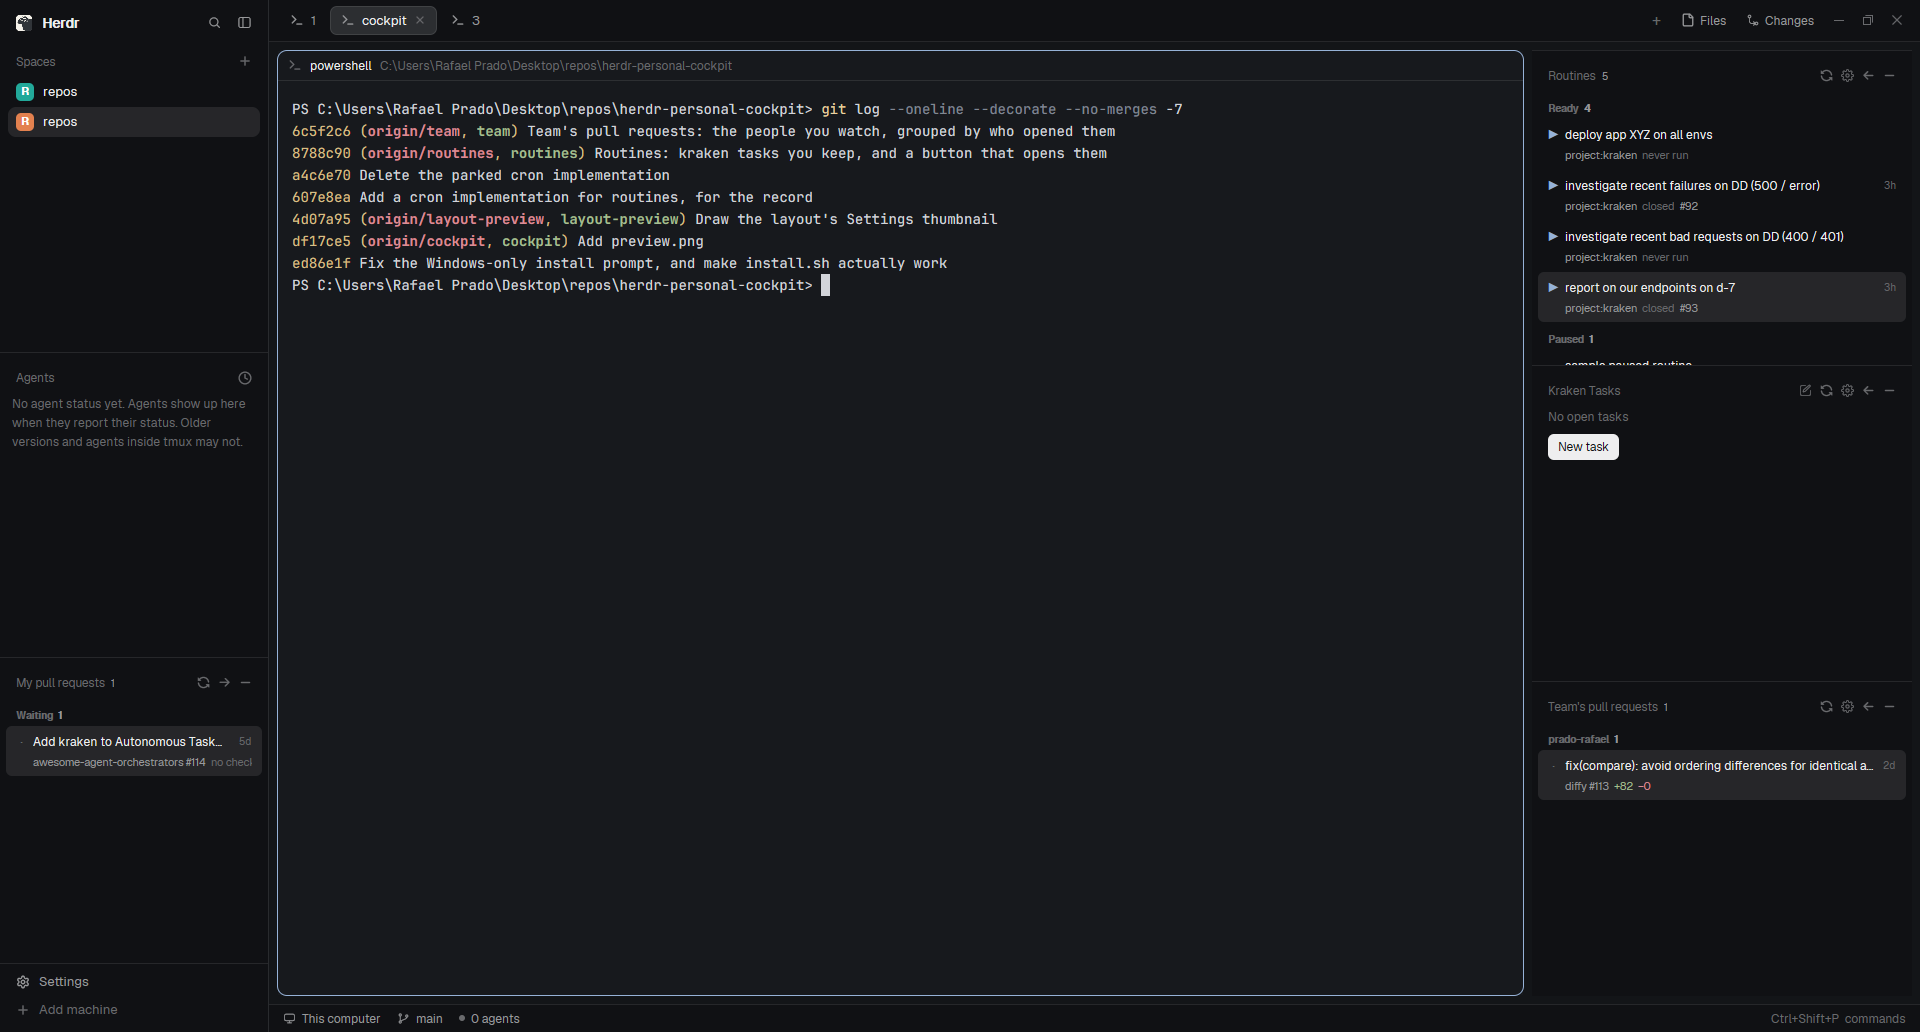
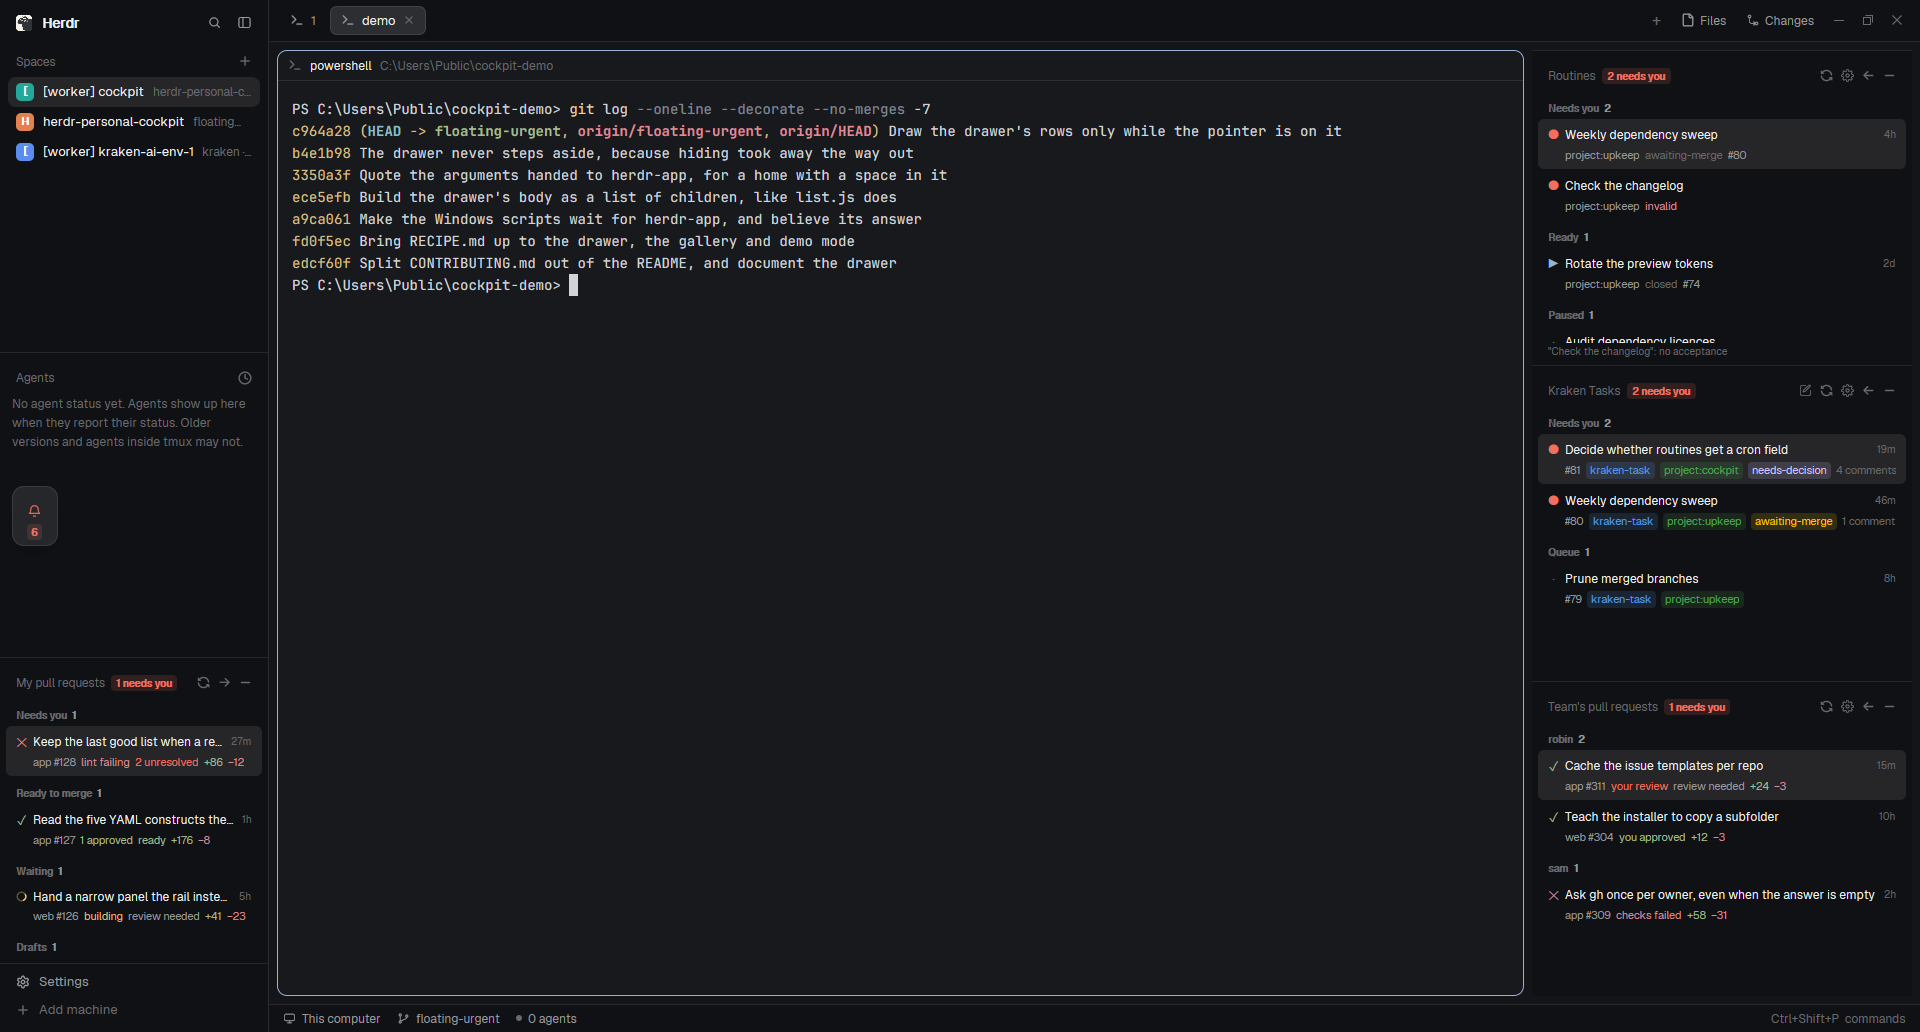
Ship the panels on both sides, and reshoot preview.png from the sandbox
The arrangement is the one this gets used in: My pull requests in the sidebar
under Spaces and Agents, and Routines, Kraken Tasks and Team's pull requests
in the right column in that order, with the terminals between them. What is
yours alone on the left, what you share with other people on the right. The
order is now asserted, because it is a promise the recipe makes.

The drawer moves to the left edge with it. The case for the right was that the
right column shipped hidden, so the strip fell on the dead margin beside a
terminal. That stopped being true in this commit: the right of the window is a
column of panels now, and the left is the sidebar, whose middle is the sparse
Agents block. Either edge overlaps something -- the drawer floats -- and the
left overlaps the least. It is still a drag away from the other one.

preview.png is reshot from the sandbox, which is what the sandbox was for. The
one it replaces had a real repo, a real login, real routine names and a real
home path in it, and has been the herdr.dev gallery card that whole time.

The panels were the easy half: they are full of the acme world by themselves.
The work area was not -- the sandbox shares herdr-core, so the terminal in
front is a real one with a real prompt. This one runs in a clone at
C:\Users\Public\cockpit-demo, so the only thing on screen from this machine is
this repository's own public history. CONTRIBUTING.md now says how, because
the next person to reshoot it will hit exactly the same thing.

diff --git a/tests/structure.test.js b/tests/structure.test.js
@@ -277,6 +277,22 @@ test("every module the recipe lists is a file, and every file is listed", () => 
   }
 });
 
+test("the shipped layout puts the panels where, and in the order, it says", () => {
+  // Not a style preference: this is how the layout is meant to be read, left
+  // column then right, and RECIPE.md's What you see describes exactly this.
+  // A panel that quietly changed places would make the recipe wrong.
+  const layout = JSON.parse(read(join(ROOT, "layouts", "cockpit.json")));
+  const find = (node, id) => (node?.id === id ? node : (node?.children ?? []).reduce((a, c) => a || find(c, id), null));
+  const kinds = (column) => (column?.children ?? []).map((c) => c.content?.props?.kind).filter(Boolean);
+
+  assert.deepEqual(kinds(find(layout, "sidebar-lists")), ["pulls"]);
+  assert.deepEqual(kinds(find(layout, "right-lists")), ["routines", "issues", "team"]);
+
+  // The right column ships with panels in it, so it ships shown. dock.js hides
+  // it only once the last panel is moved out.
+  assert.notEqual(find(layout, "right-lists").hidden, true);
+});
+
 test("the shipped layout hangs the drawer off an edge, with a peek", () => {
   // The strip the drawer draws is exactly `peek` wide: any other number and
   // the count sits half off the screen. drawer.js names it EDGE.

diff --git a/RECIPE.md b/RECIPE.md
@@ -1,14 +1,15 @@
 # Personal Cockpit
 
-Stacked panels in the Herdr sidebar, under Spaces and Agents: your open pull
-requests across every repo you can read, the open pull requests of the people
-you watch, the tasks you keep instead of rewriting, and the open issues of one
-coordination repo you pick — a kraken task queue. Each says in its header how
-many want something from you, keeps its last good list when the network blips,
-minimises to its own header bar, and can move to a matching column on the
-right. Click a row to open it in the browser.
+Panels down both sides of the Herdr window, with the terminals between them:
+in the sidebar under Spaces and Agents, your open pull requests across every
+repo you can read; in a column on the right, the tasks you keep instead of
+rewriting, the open issues of one coordination repo you pick — a kraken task
+queue — and the open pull requests of the people you watch. Each says in its
+header how many want something from you, keeps its last good list when the
+network blips, minimises to its own header bar, and moves to the other side
+with one button. Click a row to open it in the browser.
 
-Hanging off the window's right edge, a 44 px strip with a count: what is waiting
+Hanging off the window's left edge, a 44 px strip with a count: what is waiting
 on you across all four, ordered by what the move actually is. It floats over the
 work area, so it is still there when the sidebar is folded — and with nothing
 waiting it is not drawn at all.
@@ -17,25 +18,32 @@ waiting it is not drawn at all.
 
 ## What you see
 
-The shipped `cockpit` layout is Herdr's `main` with four blocks added to
-`sidebar-lists` and one in `floating`, so the sidebar column reads top to
-bottom:
+The shipped `cockpit` layout is Herdr's `main` with four panels, one on each
+side of the work area, and the drawer in `floating`. The terminals sit between
+them, which is the point of the arrangement: what is yours alone is on the
+left, what you share with other people is on the right, and the work is in the
+middle.
+
+The **sidebar** reads top to bottom:
 
 - **Brand** — 46 px, `workspace-chrome`, drags the window.
 - **Spaces** — flexible, `min` 90.
 - **Agents** — flexible, `min` 90.
 - **My pull requests** — flexible, `min` 42.
-- **Team's pull requests** — flexible, `min` 42.
-- **Routines** — flexible, `min` 42.
-- **Kraken Tasks** — flexible, `min` 42.
 - **Footer** — 69 px, `workspace-chrome` with `footer: true`.
 
-The sidebar is 268 px, `min` 44, `max` 480, background `chrome`, not resizable.
-To its right the usual work column: a 42 px tab bar, the active tab with card
-panes (radius 10, gap 8, 30 px always-on header, `lone: true`), a 28 px status
-bar. In `work-body` sit two more columns, both `hidden` until used: `panel`
-(Files and Changes, 368 px) and **`right-lists`** (380 px, `min` 300, `max`
-640) — the empty column any of the four panels moves into.
+It is 268 px, `min` 44, `max` 480, background `chrome`, not resizable. To its
+right the usual work column: a 42 px tab bar, the active tab with card panes
+(radius 10, gap 8, 30 px always-on header, `lone: true`), a 28 px status bar.
+
+In `work-body`, past the tab, two more columns:
+
+- **`panel`** (Herdr's Files and Changes, 368 px), `hidden` until used.
+- **`right-lists`** — 380 px, `min` 300, `max` 640, shown, and holding three
+  panels in this order: **Routines**, **Kraken Tasks**, **Team's pull
+  requests**. Each flexible, `min` 42. It is the same stack the sidebar is, so
+  a panel moves between the two and keeps its shape; emptied by moving all
+  three out, the column hides rather than goes, and keeps its width.
 
 Each panel is the same shape:
 
@@ -109,7 +117,7 @@ task is closed, and `#number` in `muted`. The age is when that task was opened.
 Narrower than 160 px a panel drops to a **rail**: its icon, tinted `blocked`
 when something needs you, and the count in a small pill.
 
-**The drawer**, floating on the window's right edge, vertically centred, with a
+**The drawer**, floating on the window's left edge, vertically centred, with a
 44 px peek. It is not in the layout tree. With nothing waiting it is not drawn
 at all — no strip, nothing on the edge.
 
@@ -293,8 +301,8 @@ for all four panels, and The floating drawer. Everything on it is made up.
 ## Built from
 
 ```
-layouts/cockpit.json          main + four blocks in sidebar-lists, and the
-                              drawer in `floating`
+layouts/cockpit.json          main + one panel in sidebar-lists, three in
+                              right-lists, and the drawer in `floating`
 layouts/cockpit.svg           its thumbnail in Settings, named by "preview"
 mods/personal-cockpit/
   main.js      the one exported View; picks a screen by props.kind
@@ -358,7 +366,7 @@ unknown `kind`, and no props at all, is the pull requests panel — which is wha
 The drawer's block, in the root's `floating` array rather than its `children`:
 
 ```json
-{ "id": "urgent", "edge": "right", "align": "center", "peek": 44,
+{ "id": "urgent", "edge": "left", "align": "center", "peek": 44,
   "content": { "mod": "personal-cockpit", "props": { "kind": "urgent" } } }
 ```
 
@@ -622,7 +630,7 @@ adding a connection to one of these, and do not estimate.
   a blank new-issue form.
 - Settings → Look shows a drawn thumbnail on the cockpit card, not the empty
   frame a layout without a `preview` gets.
-- **Nothing on the right edge** while all four panels are up to date: no strip,
+- **Nothing on the left edge** while all four panels are up to date: no strip,
   no count, nothing to hover.
 - With a failing pull request of yours, a review requested of you, a task
   labelled `needs-decision` and a routine missing its Acceptance, the edge shows
@@ -633,11 +641,15 @@ adding a connection to one of these, and do not estimate.
   row takes no pointer and opens nothing.
 - Folding the sidebar away leaves the drawer where it was — which is the whole
   reason it is not in the sidebar.
-- Docking every panel into the right column leaves the drawer exactly where it
-  was, overlapping that column's edge. So does opening Herdr's files and
-  changes panel. Nothing but an empty list takes it off the screen.
-- Dragging the drawer to the left edge puts the strip on the left of the body,
-  and Herdr still has it there after a restart.
+- Moving every panel into one column leaves the drawer exactly where it was,
+  overlapping whatever is under it. So does opening Herdr's files and changes
+  panel. Nothing but an empty list takes it off the screen.
+- Dragging the drawer to the right edge puts the strip on the right of the
+  body, and Herdr still has it there after a restart.
+- The sidebar holds My pull requests, and the right column Routines, Kraken
+  Tasks and Team's pull requests, in that order. The dock arrow in any of their
+  headers moves one across; moving all three out of the right column hides it
+  and keeps its width for the next one.
 - `herdr-app do personal-cockpit.kit` opens the gallery **once**, not four
   times, with every header state, the three rails, all four panels' rows wide
   and narrow, and the drawer's body on it. `escape` closes it. Switching the

diff --git a/README.md b/README.md
@@ -3,8 +3,9 @@
 [![CI](https://github.com/rafael-adcp/herdr-personal-cockpit/actions/workflows/ci.yml/badge.svg)](https://github.com/rafael-adcp/herdr-personal-cockpit/actions/workflows/ci.yml)
 [![codecov](https://codecov.io/gh/rafael-adcp/herdr-personal-cockpit/branch/main/graph/badge.svg)](https://codecov.io/gh/rafael-adcp/herdr-personal-cockpit)
 
-Panels for the [Herdr](https://herdr.dev) desktop app: what needs me, in the
-sidebar, next to the agents doing the work.
+Panels for the [Herdr](https://herdr.dev) desktop app: what needs me, on both
+sides of the terminals doing the work. Your own pull requests on the left, with
+Spaces and Agents; the queue and the people you watch on the right.
 
 ![Personal Cockpit](preview.png)
 
@@ -15,14 +16,18 @@ sidebar, next to the agents doing the work.
 | **Kraken Tasks** | The open issues of one coordination repo you choose — a [kraken](https://github.com/rafael-adcp/kraken) task queue. Grouped into Needs you / Queue, with the issues' own GitHub labels. |
 | **Routines** | Kraken tasks you keep instead of rewriting. A `▶` opens one in the queue; while its task is open the button is gone. Grouped into Needs you / In the queue / Ready / Paused. |
 
+**My pull requests** ships in the sidebar; **Routines**, **Kraken Tasks** and
+**Team's pull requests** ship in a 380px column on the right of the work area,
+in that order. Any of them moves to the other side with the dock arrow in its
+header, and the layout remembers where you put it.
+
 All four keep their last good list when a refresh fails, minimise to their own
-header bar — the minus, or a press anywhere else on the bar — move to a column
-on the right, and drop to an icon-and-count rail when the sidebar is dragged
-narrow.
+header bar — the minus, or a press anywhere else on the bar — and drop to an
+icon-and-count rail when their column is dragged narrow.
 
 ## The drawer on the edge
 
-Hanging off the right edge of the window is a 44px strip with a count: what is
+Hanging off the left edge of the window is a 44px strip with a count: what is
 waiting on you across all four panels. Hover it and it slides out. With nothing
 waiting it is not there at all — the reward for being up to date is a clean
 edge.
@@ -139,16 +144,17 @@ column:
   "content": { "mod": "personal-cockpit", "props": { "kind": "issues", "node": "kraken-issues" } } }
 ```
 
-For the move button to have somewhere to go, the row holding your tab block
-needs an empty `right-lists` column — or let the panel create one the first
-time you press it.
+Put the first block in your sidebar column and the other three in a
+`right-lists` column inside the row that holds your tab block, which is where
+the dock arrow moves a panel to. Leave that column out and the first press of
+the arrow creates it.
 
 The drawer is not in the tree. It goes in `floating`, beside the root's
 `children`, and the `peek` is what stays showing when the pointer is elsewhere:
 
 ```json
 "floating": [
-  { "id": "urgent", "edge": "right", "align": "center", "peek": 44,
+  { "id": "urgent", "edge": "left", "align": "center", "peek": 44,
     "content": { "mod": "personal-cockpit", "props": { "kind": "urgent" } } }
 ]
 ```

diff --git a/CONTRIBUTING.md b/CONTRIBUTING.md
@@ -171,8 +171,38 @@ A sandbox screenshot is the likeliest way one escapes, so the rule is checked
 where the data is: `tests/demo.test.js` and `tests/gallery.test.js` assert that
 every URL and repository in the sample data is in the `acme` world.
 
-`preview.png` is the one file in the repo that was shot before this rule
-existed. Replace it from the sandbox when the drawer lands in it.
+### Reshooting `preview.png`
+
+It is the herdr.dev gallery card and the README image, so it is the one picture
+of this mod most people ever see. Shoot it from the sandbox:
+
+```powershell
+.\tools\sandbox.ps1 start
+.\tools\sandbox.ps1 dark
+.\tools\sandbox.ps1 shot
+```
+
+The panels take care of themselves — every one of them is full of the `acme`
+world. The **work area does not**: the sandbox window shares herdr-core with
+your own, so whatever terminal is in front is yours, with your home folder in
+its prompt. The version before this one went out with a real repo, a real
+login and a real home path in it.
+
+So give it a terminal of its own somewhere neutral:
+
+```sh
+git clone --no-hardlinks . /c/Users/Public/cockpit-demo
+```
+
+```powershell
+herdr-app do tab.new --name demo --folder "C:\Users\Public\cockpit-demo"
+hc send <terminal> "git log --oneline --decorate --no-merges -7"
+.\tools\sandbox.ps1 shot
+herdr-app do tab.close --id <tab> --confirmed true     # it is in your window too
+```
+
+`herdr-app do window.maximize` first: the card wants the full 1920. Delete the
+clone afterwards.
 
 ## Tests
 
